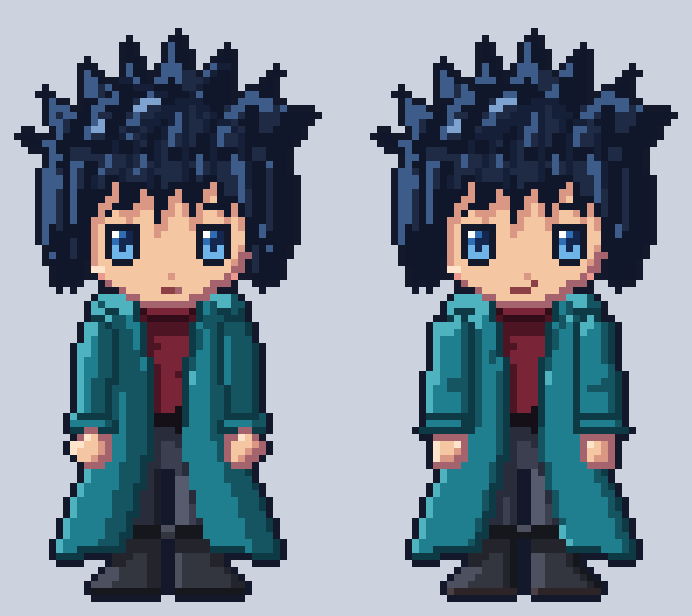
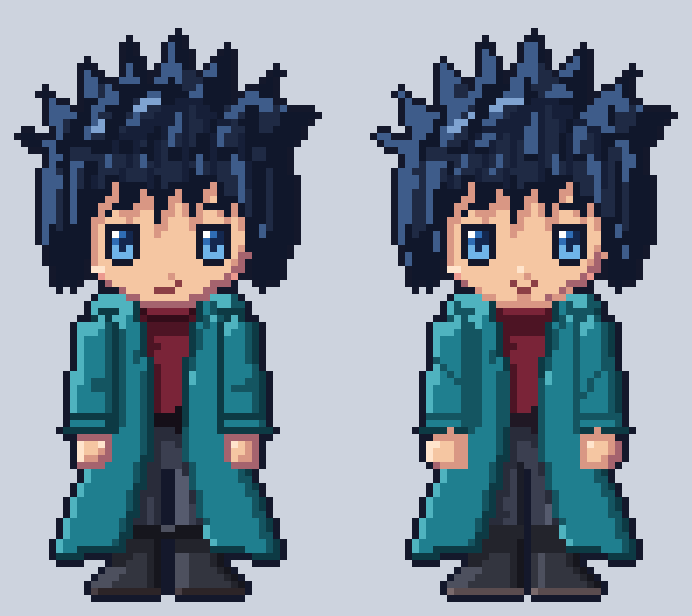
Herói pixel art: 2ª rodada da direção de arte
Traço interno no tom de sombra (casaco sem cara de placa), dobras diagonais no
cotovelo, sub-mechas com luz mais larga e sombra fina, limpeza mais forte no
cabelo protegendo os fios; nariz com luz, boca sorrindo; pernas e botas com vão
de 1 px, luz larga, botas não espelhadas e sola própria; mãos redondas; teste
em tamanho real sobre o mapa da vila.

Claude-Session: https://claude.ai/code/session_013vLqrVyPBNyjBLYS91kN9N

diff --git a/public/pixelHero.js b/public/pixelHero.js
@@ -54,7 +54,7 @@ const rows = (y0, y1) => inside((x, y) => y >= y0 && y < y1);
  * d = sombra profunda, s = sombra, l = luz. sep: traço interno onde a peça fica na frente de outra.
  * recv: recebe sombra projetada das peças da frente (de cima/esquerda).
  */
-const part = (name, layer, mask, pal, o = {}) => ({ name, layer, mask, pal, group: o.group ?? name, shade: o.shade ?? {}, sep: o.sep ?? true, recv: o.recv ?? false, marks: o.marks ?? [], strokes: o.strokes ?? [], subs: o.subs ?? [] });
+const part = (name, layer, mask, pal, o = {}) => ({ name, layer, mask, pal, group: o.group ?? name, shade: o.shade ?? {}, sep: o.sep ?? true, recv: o.recv ?? false, marks: o.marks ?? [], strokes: o.strokes ?? [], subs: o.subs ?? [], sepTone: o.sepTone });
 
 // ---------------------------------------------------------------- corpo, roupa (comum aos 3 penteados)
 
@@ -68,18 +68,19 @@ function bodyParts() {
 
   // Pernas (calça larga presa na bota), com a fenda entre elas.
   const quadril = poly([[24, 63], [40, 63], [40.3, 71], [23.7, 71]]);
-  const pernaE = poly([[23.7, 70], [31.4, 70], [31, 83], [24.5, 83]]);
-  P.push(part('calca', 'calca', or(quadril, pernaE, poly(mir([[23.7, 70], [31.4, 70], [31, 83], [24.5, 83]])).map((v) => v)), PAL.calca,
-    { shade: { l: [-2, 0], s: [1, 0] }, recv: true, marks: [[26, 75, 0], [27, 75, 0], [26, 76, 0], [34, 75, 0], [35, 75, 0], [34, 76, 0], [28, 77, 2], [36, 77, 2]] }));
+  const pernaE = poly([[23.7, 70], [31.9, 70], [31.6, 83], [24.5, 83]]);
+  P.push(part('calca', 'calca', or(quadril, pernaE, poly([[33, 70], [40.3, 70], [39.5, 83], [33, 83]])), PAL.calca,
+    { shade: { l: [-3, 0], s: [1, 0], d: [1, 1] }, recv: true, marks: [[26, 75, 0], [27, 75, 0], [27, 76, 0], [35, 75, 0], [36, 75, 0], [36, 76, 0], [28, 77, 2], [29, 77, 2], [37, 77, 2], [38, 77, 2]] }));
 
   // Botas: cano com punho dobrado, bico para fora, sola escura.
-  const botaE = [[24, 80], [31.4, 80], [31.4, 89], [21.2, 89], [21.6, 86.4], [23.6, 85.2]];
-  P.push(part('bota', 'sapato', or(poly(botaE), poly(mir(botaE))), PAL.sapato,
+  const botaE = [[24, 80], [31.9, 80], [31.9, 89], [21.2, 89], [21.6, 86.4], [23.6, 85.2]];
+  const botaD = [[33, 80], [40, 80], [40.6, 85.4], [42.4, 86.6], [43, 89], [33, 89]];
+  P.push(part('bota', 'sapato', or(poly(botaE), poly(botaD)), PAL.sapato,
     { shade: { l: [-2, -1], s: [2, 0], d: [1, 0] }, recv: true }));
-  P.push(part('sola', 'sapato', and(or(poly(botaE), poly(mir(botaE))), rows(87.6, 90)), ['#4a4045', '#2c2427', '#2c2427', '#1a1416'], { shade: { l: [-1, 0] }, group: 'sola', sep: false }));
-  const punhoE = [[23.4, 79], [31.6, 79], [31.6, 81.4], [23.4, 81.4]];
-  P.push(part('punho_bota', 'sapato', or(poly(punhoE), poly(mir(punhoE))), PAL.sapato,
-    { shade: { l: [0, -1], s: [2, 0], d: [0, 1] }, group: 'punho_bota' }));
+  P.push(part('sola', 'sapato', and(or(poly(botaE), poly(botaD)), rows(87.6, 90)), ['#7a6a6c', '#5a4c4f', '#5a4c4f', '#3a3033'], { shade: { l: [-1, 0] }, group: 'sola', sep: false }));
+  const punhoE = [[23.4, 79], [31.9, 79], [31.9, 81.4], [23.4, 81.4]];
+  P.push(part('punho_bota', 'sapato', or(poly(punhoE), poly([[33, 79], [40.6, 79], [40.6, 81.4], [33, 81.4]])), PAL.sapato,
+    { shade: { l: [-2, -1], s: [1, 0], d: [0, 1] }, group: 'punho_bota' }));
 
   // Pescoço e tronco (camisa vinho com gola alta), faixa na cintura.
   P.push(part('pescoco', 'corpo', poly([[28, 44], [36, 44], [36, 51], [28, 51]]), PAL.pele, { shade: { s: [2, 0] }, recv: true, group: 'pele' }));
@@ -107,13 +108,13 @@ function bodyParts() {
 
   // Braços: mangas largas e fofas, com a dobra do cotovelo, punho dobrado e a mão fechada.
   const mangaE = [[22.6, 48.2], [25.2, 50.4], [24.6, 57], [24.8, 63.6], [17.8, 63.6], [18.6, 56.6], [19.4, 50.4]];
-  P.push(part('manga_e', 'casaco', poly(mangaE), PAL.casaco, { shade: { l: [-1, -2], s: [2, 1], d: [1, 1] }, group: 'manga', strokes: [[2, [[20, 57], [22, 58]]], [2, [[21, 59], [23, 59]]]] }));
-  P.push(part('manga_d', 'casaco', poly(mir(mangaE)), PAL.casaco, { shade: { l: [-1, -2], s: [2, 1], d: [1, 1] }, group: 'manga', strokes: [[2, [[42, 57], [44, 58]]], [2, [[41, 59], [43, 59]]]] }));
+  P.push(part('manga_e', 'casaco', poly(mangaE), PAL.casaco, { shade: { l: [-1, -2], s: [2, 1], d: [1, 1] }, group: 'manga', strokes: [[2, [[19, 55], [21, 57]]], [2, [[22, 58], [23, 60]]]] }));
+  P.push(part('manga_d', 'casaco', poly(mir(mangaE)), PAL.casaco, { shade: { l: [-1, -2], s: [2, 1], d: [1, 1] }, group: 'manga', strokes: [[2, [[44, 55], [42, 57]]], [2, [[41, 58], [40, 60]]]] }));
   const punhoMangaE = [[17.8, 62.6], [25, 62.6], [25.4, 66], [17.4, 66]];
   P.push(part('punho_e', 'casaco', poly(punhoMangaE), PAL.casaco, { shade: { l: [0, -1], s: [2, 1], d: [0, 1] }, group: 'punho' }));
   P.push(part('punho_d', 'casaco', poly(mir(punhoMangaE)), PAL.casaco, { shade: { l: [0, -1], s: [2, 1], d: [0, 1] }, group: 'punho' }));
-  P.push(part('mao_e', 'corpo', ell(21.4, 68.4, 2.8, 2.9), PAL.pele, { shade: { l: [-1, -1], s: [2, 1], d: [1, 1] }, group: 'mao', recv: true, marks: [[20, 69, 2], [21, 69, 2], [22, 67, 0]] }));
-  P.push(part('mao_d', 'corpo', ell(42.6, 68.4, 2.8, 2.9), PAL.pele, { shade: { l: [-1, -1], s: [2, 1], d: [1, 1] }, group: 'mao', recv: true, marks: [[42, 69, 2], [43, 69, 2], [41, 67, 0]] }));
+  P.push(part('mao_e', 'corpo', ell(21.3, 68.4, 3.1, 3), PAL.pele, { shade: { l: [-1, -1], s: [2, 1], d: [1, 1] }, group: 'mao', recv: true, marks: [[22, 67, 0]] }));
+  P.push(part('mao_d', 'corpo', ell(42.7, 68.4, 3.1, 3), PAL.pele, { shade: { l: [-1, -1], s: [2, 1], d: [1, 1] }, group: 'mao', recv: true, marks: [[41, 67, 0]] }));
 
   // Cabeça: crânio largo e queixo macio; orelhas.
   // Orelhas: ficam sob as mechas laterais na vista de frente (entram nas vistas de lado/3/4).
@@ -141,8 +142,8 @@ export function faceStamps() {
   }
   // Sobrancelhas de 1 px, levemente arqueadas.
   for (const [x, y] of [[23, 34], [24, 33], [25, 33], [26, 33], [37, 33], [38, 33], [39, 33], [40, 34]]) put('olhos', x, y, PAL.cabelo[2]);
-  put('boca', 32, 43, PAL.pele[2]); // nariz: 1 px de sombra
-  put('boca', 30, 45, PAL.boca); put('boca', 31, 45, PAL.boca); put('boca', 32, 45, PAL.boca); put('boca', 33, 44, PAL.boca);
+  put('boca', 32, 43, PAL.pele[2]); put('boca', 31, 42, PAL.pele[0]); // nariz: sombra embaixo/direita e luz em cima
+  put('boca', 30, 44, PAL.boca); put('boca', 31, 45, PAL.boca); put('boca', 32, 45, PAL.boca); put('boca', 33, 44, PAL.boca); put('boca', 31, 46, PAL.pele[2]); put('boca', 32, 46, PAL.pele[2]);
   for (const [x, y] of [[21, 43], [22, 43], [41, 43], [42, 43]]) put('boca', x, y, PAL.blush);
   return px;
 }
@@ -259,6 +260,7 @@ export function renderHeroFront(hairKey = 'A') {
   const tone = new Int8Array(W * H).fill(-1);
   const at = (m, x, y) => x >= 0 && y >= 0 && x < W && y < H && m[y * W + x];
 
+  const keep = new Set(); // pixels desenhados de propósito (fios, vincos): a limpeza não mexe
   parts.forEach((p, pi) => {
     const { l, s, d } = p.shade;
     for (let y = 0; y < H; y++) for (let x = 0; x < W; x++) {
@@ -275,8 +277,8 @@ export function renderHeroFront(hairKey = 'A') {
     for (const sm of p.subs) for (let y = 0; y < H; y++) for (let x = 0; x < W; x++) {
       const i = y * W + x; if (!sm[i] || own[i] !== pi || tone[i] === 3) continue;
       let t = -1;
-      if (!at(sm, x - 1, y - 1)) t = 0;
-      if (!at(sm, x + 2, y + 1) || !at(sm, x + 1, y + 2)) t = 2;
+      if (!at(sm, x - 1, y - 1) || (!at(sm, x - 2, y) && y < 30)) t = 0;
+      if (!at(sm, x + 1, y + 1)) t = 2;
       if (t >= 0) { col[i] = p.pal[t]; tone[i] = t; }
     }
     // Traços (fios do cabelo, dobras): linha de pixels num tom, só sobre a própria peça.
@@ -284,7 +286,7 @@ export function renderHeroFront(hairKey = 'A') {
       const [x0, y0] = pts[k - 1], [x1, y1] = pts[k], n = Math.max(Math.abs(x1 - x0), Math.abs(y1 - y0), 1);
       for (let q = 0; q <= n; q++) {
         const x = Math.round(x0 + ((x1 - x0) * q) / n), y = Math.round(y0 + ((y1 - y0) * q) / n), i = y * W + x;
-        if (own[i] === pi) { col[i] = typeof t === 'string' ? t : p.pal[t]; tone[i] = typeof t === 'string' ? 2 : t; }
+        if (own[i] === pi) { col[i] = typeof t === 'string' ? t : p.pal[t]; tone[i] = typeof t === 'string' ? 2 : t; keep.add(i); }
       }
     }
   });
@@ -314,7 +316,7 @@ export function renderHeroFront(hairKey = 'A') {
       if (own[j] >= 0 && own[j] < pi && grp(j) !== parts[pi].group) { seps.push(i); break; }
     }
   }
-  for (const i of seps) { col[i] = parts[own[i]].pal[3]; tone[i] = 3; }
+  for (const i of seps) { const t = parts[own[i]].sepTone ?? 2; col[i] = parts[own[i]].pal[t]; tone[i] = t; }
 
   // Sombra interna do casaco: a borda que dá para a abertura (camisa, faixa, calça) fica no tom de sombra.
   const inner = new Set(['camisa', 'calca', 'acessorio']);
@@ -327,11 +329,11 @@ export function renderHeroFront(hairKey = 'A') {
 
   // Limpeza: pixel isolado (cor diferente dos 4 vizinhos, 3 deles iguais entre si e da mesma peça) vira o vizinho.
   for (let pass = 0; pass < 2; pass++) for (let y = 1; y < H - 1; y++) for (let x = 1; x < W - 1; x++) {
-    const i = y * W + x; if (!col[i]) continue;
+    const i = y * W + x; if (!col[i] || keep.has(i)) continue;
     const nb = [i - 1, i + 1, i - W, i + W];
     if (nb.some((j) => col[j] === col[i])) continue;
     const cnt = {}; for (const j of nb) if (col[j] && own[j] === own[i]) cnt[col[j]] = (cnt[col[j]] || 0) + 1;
-    const best = Object.entries(cnt).find(([, n]) => n >= 3);
+    const best = Object.entries(cnt).sort((a, b) => b[1] - a[1]).find(([, n]) => n >= (parts[own[i]].layer === 'cabelo' ? 2 : 3));
     if (best) { col[i] = best[0]; tone[i] = parts[own[i]].pal.indexOf(best[0]); }
   }
 
